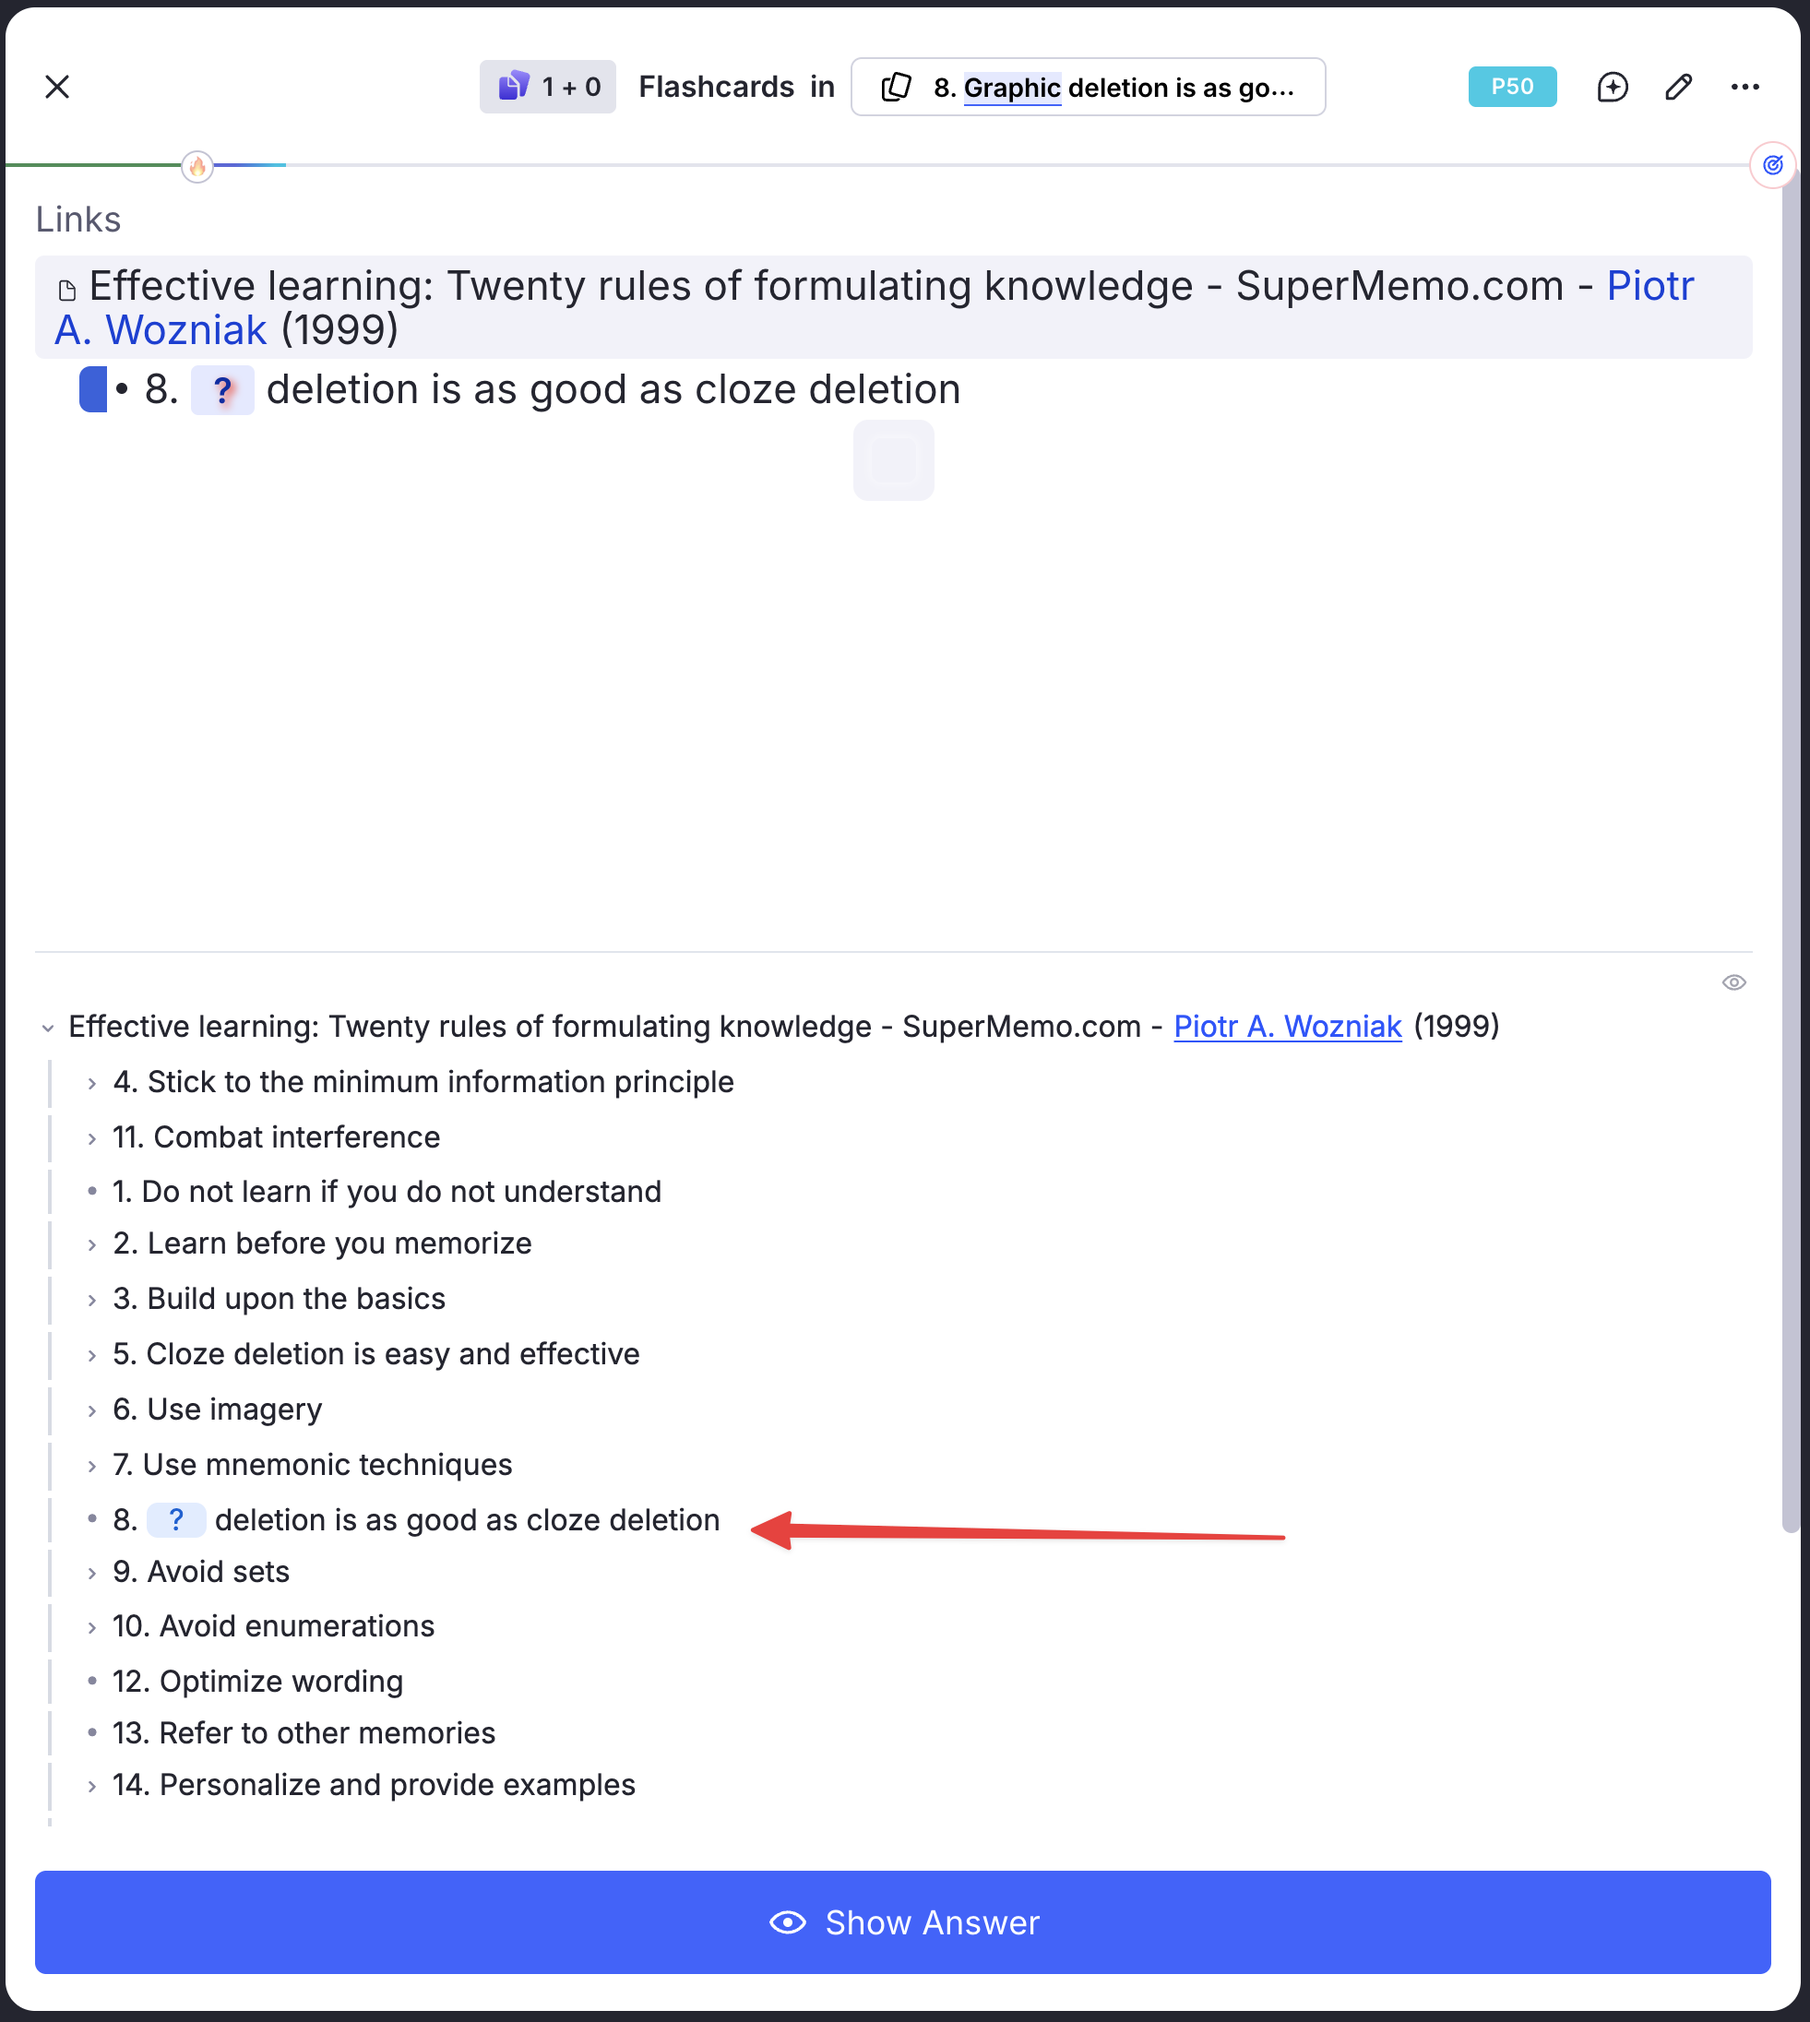
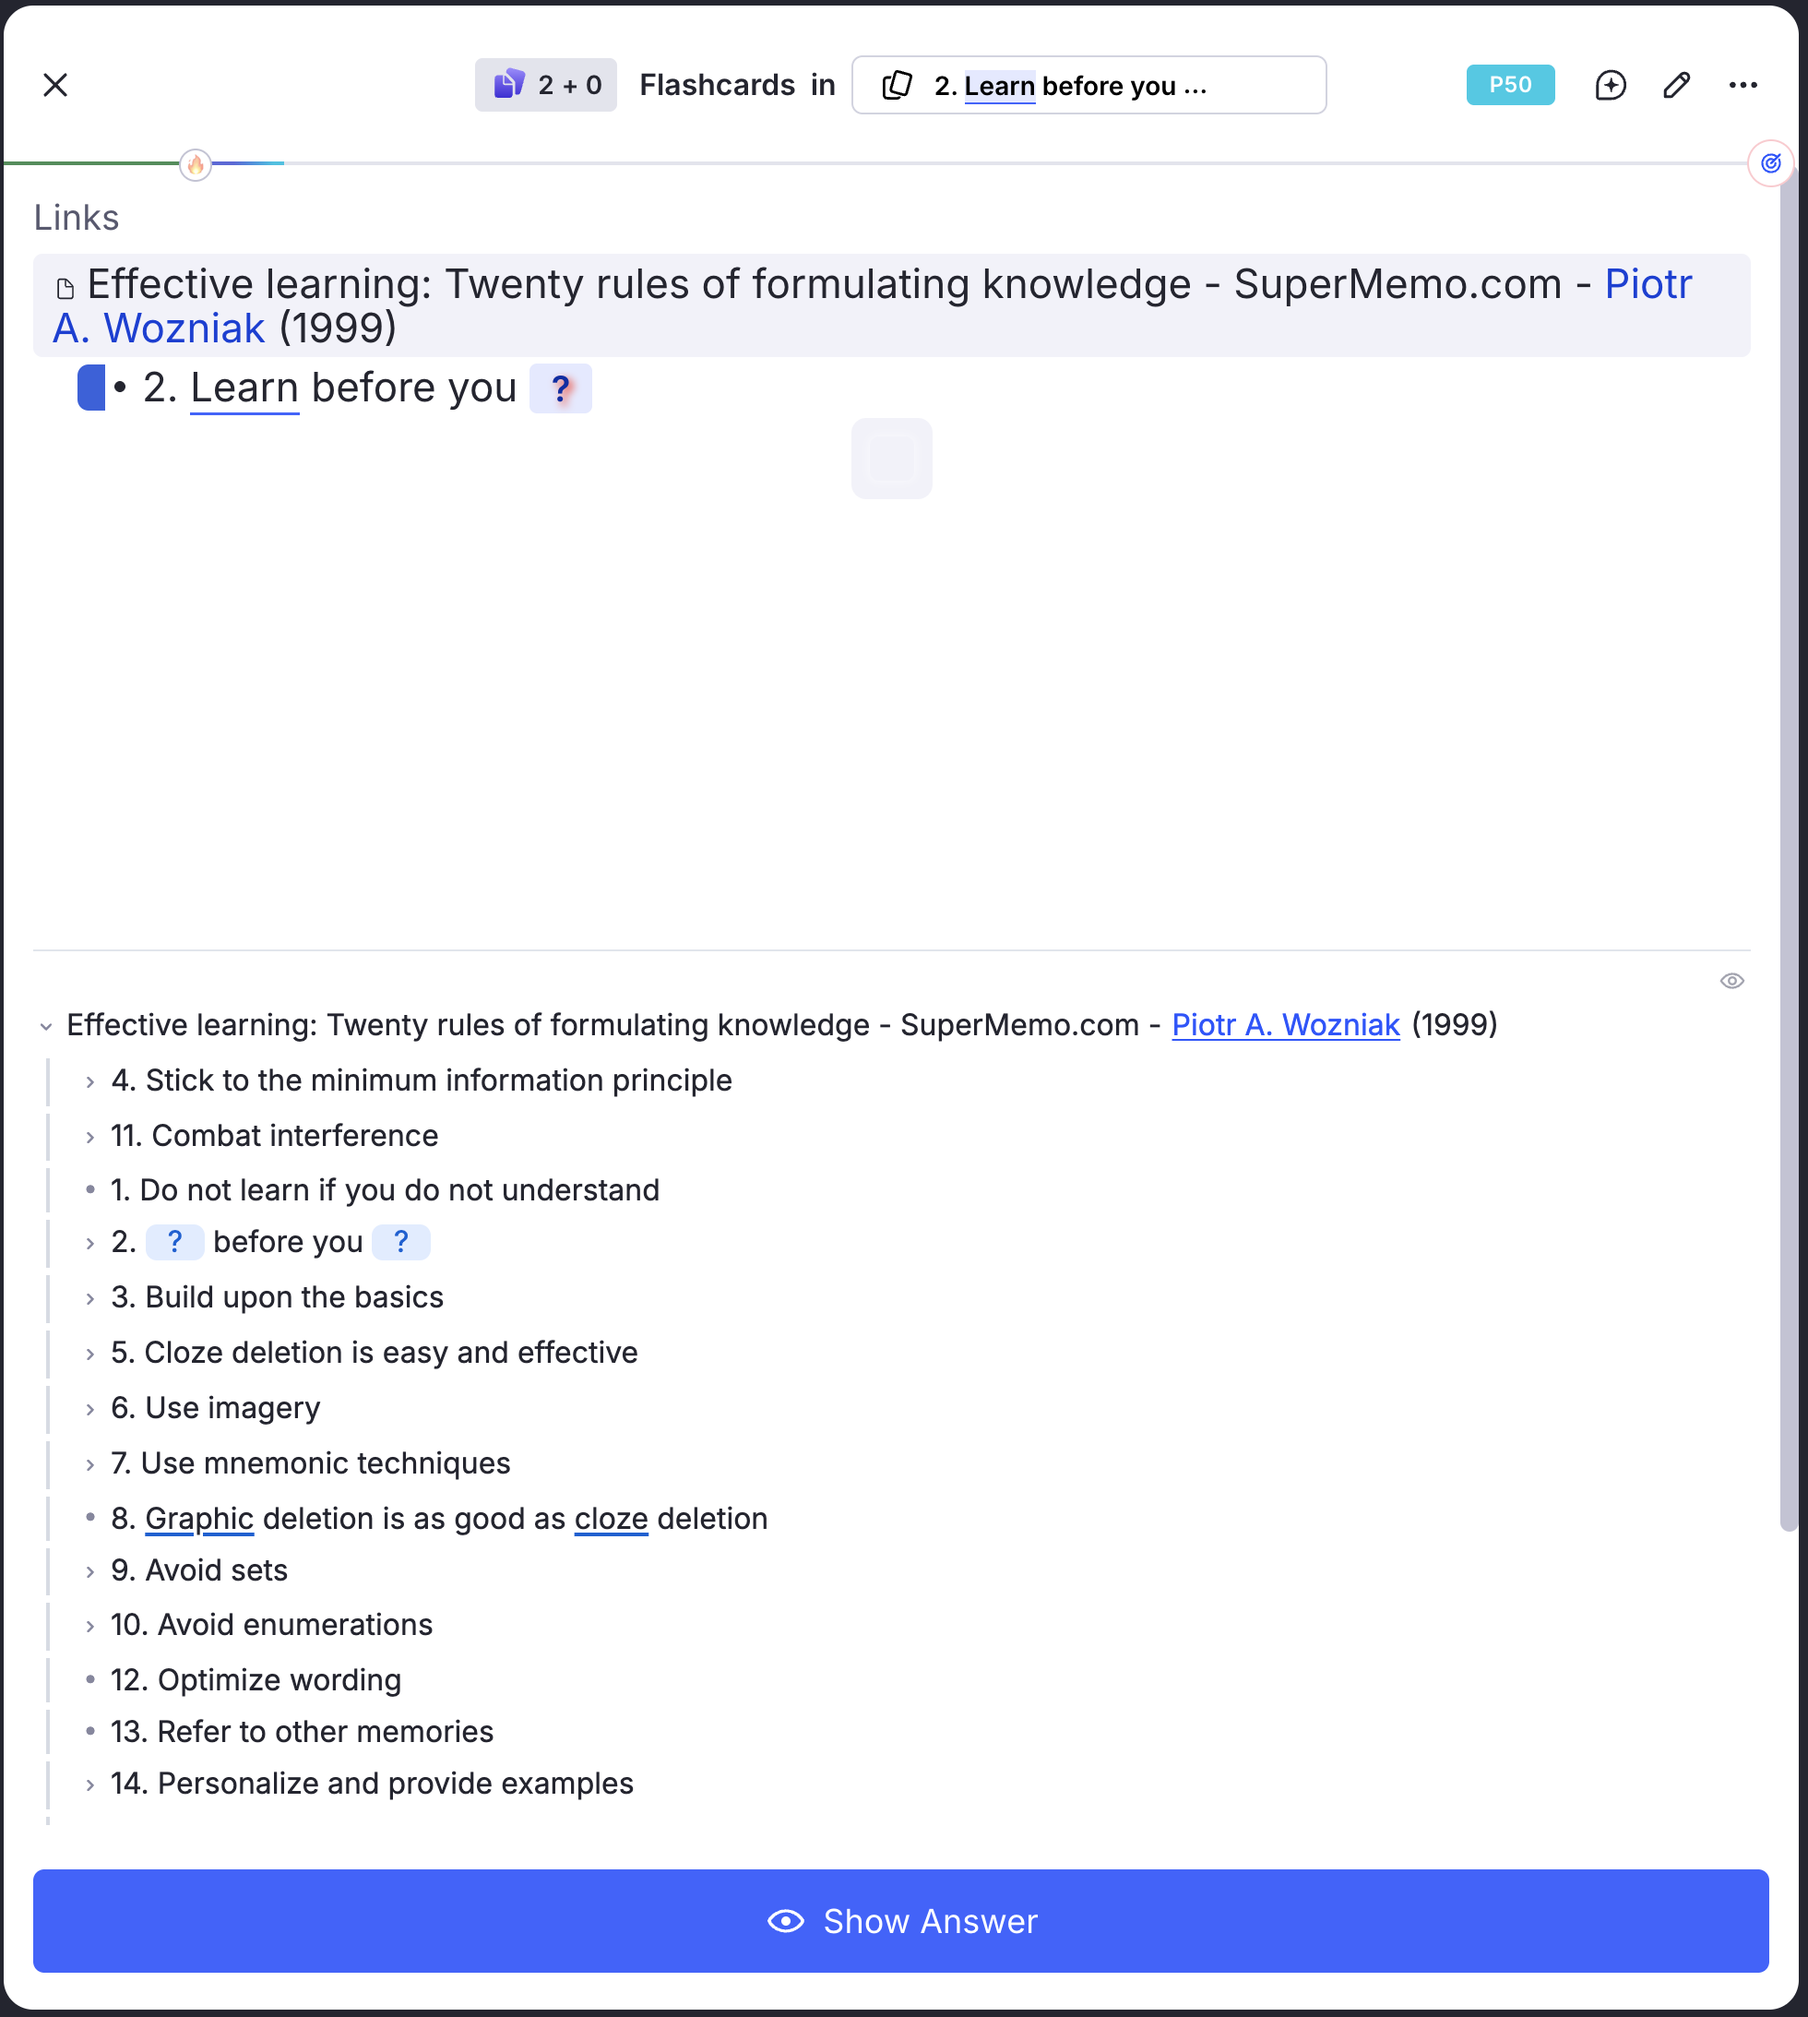
Refactor code structure for improved readability and maintainability

diff --git a/README_ES.md b/README_ES.md
@@ -170,7 +170,14 @@ Para reproducirlas: pon el cursor en el Rem del título del documento, ejecuta *
 
 2) **Un cloze dentro de su lista — fase de pregunta** *(caso de uso 1)*
 
-   Repasando la línea de dos huecos bajo **9. Avoid sets**. En el árbol esa línea muestra **ambos** huecos como **?** — el propio área de tarjeta de RemNote, arriba, ya renderiza por completo la línea bajo examen, así que el árbol no compite con ella. Lo que el árbol añade es el resto de la regla 9 a su alrededor: *A set is a collection of objects*, el ejemplo de los miembros de la UE y las dos tarjetas hermanas con sus respuestas a la vista. Esta es la alternativa barata a la tarjeta de conjunto — un hueco cada vez, pero nunca fuera de su lista.
+   Repasando *“2. `{{Learn}}` before you `{{memorize}}`”*. La tarjeta pide un hueco; el árbol devuelve esa línea a la lista a la que pertenece, con el resto de las veinte reglas a su alrededor.
+
+   Esta es la alternativa barata a la tarjeta de conjunto, y el documento demuestra el argumento sobre sí mismo: una tarjeta que pregunte *“enumera las veinte reglas de Woźniak”* es justo el elemento que las reglas 9 y 10 te dicen que no construyas — calificado todo‑o‑nada y leech en potencia. Un cloze por regla cuesta un solo lapso cuando se escapa, en lugar de tumbar la lista entera, y, como el árbol mantiene los demás títulos a la vista, repasas la forma de la enumeración cada vez que aparece uno de sus miembros.
+
+   En esta captura se ven dos detalles de renderizado:
+
+   - **La línea en repaso muestra *ambos* huecos como `?`**, aunque solo se esté preguntando uno. El área de tarjeta de RemNote, arriba, ya renderiza esa línea correctamente — *Learn* revelado, el hueco preguntado oculto — así que el árbol se aparta y deja la línea entera fuera de juego.
+   - **Las demás líneas muestran sus respuestas.** La regla 8 aparece como *“`Graphic` deletion is as good as `cloze` deletion”*, con sus dos huecos rellenos y subrayados. Ese es el comportamiento por defecto: todo salvo la línea en repaso se muestra contestado, como contexto. La captura 4 le da la vuelta.
 
    ![Cloze en contexto, fase de pregunta](https://raw.githubusercontent.com/hugomarins/remnote-context-for-cloze/main/img/02-cloze-question.png)
 
@@ -182,7 +189,7 @@ Para reproducirlas: pon el cursor en el Rem del título del documento, ejecuta *
 
 4) **`Context Hide Others` — cuando los vecinos lo delatan**
 
-   Fíjate en lo que la captura 2 te regala: *“…due to ⇒ **the high cost of retaining memories based on sets**”* y *“…you should always try to ⇒ **convert them into Enumerations**”*. Son dos tarjetas hermanas ofreciéndote sus respuestas mientras todavía intentas recordar esta. Etiqueta el Rem en repaso con `Context Hide Others` (`cfchide`) y toda *otra* respuesta del árbol — esos reversos incluidos — se reduce a un `…` clicable. Púlsalos de uno en uno para autoevaluarte con el resto de la regla 9 una vez hayas respondido.
+   A veces los vecinos hablan de más. Al repasar la línea de dos huecos bajo **9. Avoid sets**, el árbol te entrega dos tarjetas hermanas con sus respuestas en texto plano — *“…due to ⇒ **the high cost of retaining memories based on sets**”* y *“…you should always try to ⇒ **convert them into Enumerations**”* — mientras todavía intentas recordar esta. Etiqueta el Rem en repaso con `Context Hide Others` (`cfchide`) y toda *otra* respuesta del árbol, esos reversos incluidos, se reduce a un `…` clicable. Púlsalos de uno en uno para autoevaluarte con el resto de la regla 9 una vez hayas respondido.
 
    ![Hide Other Answers, con clic para revelar](https://raw.githubusercontent.com/hugomarins/remnote-context-for-cloze/main/img/04-hide-others.png)
 

diff --git a/README_PT-BR.md b/README_PT-BR.md
@@ -170,7 +170,14 @@ Para reproduzi‑las: ponha o cursor no Rem do título do documento, execute **A
 
 2) **Um cloze dentro da sua lista — fase de pergunta** *(caso de uso 1)*
 
-   Revisando a linha de duas lacunas sob **9. Avoid sets**. Na árvore, essa linha mostra as **duas** lacunas como **?** — a própria área de cartão do RemNote, acima, já renderiza por inteiro a linha em teste, então a árvore não disputa com ela. O que a árvore acrescenta é o resto da regra 9 em volta: *A set is a collection of objects*, o exemplo dos membros da UE e os dois cartões irmãos com as respostas à mostra. Esta é a alternativa barata ao cartão de conjunto — uma lacuna por vez, mas nunca fora da sua lista.
+   Revisando *“2. `{{Learn}}` before you `{{memorize}}`”*. O cartão pede uma lacuna; a árvore devolve essa linha à lista a que ela pertence, com o restante das vinte regras em volta.
+
+   Esta é a alternativa barata ao cartão de conjunto, e o documento prova o argumento sobre si mesmo: um cartão que pergunte *“liste as vinte regras de Woźniak”* é exatamente o item que as regras 9 e 10 mandam não construir — avaliado em tudo‑ou‑nada e leech em potencial. Um cloze por regra custa um único lapso quando escapa, em vez de derrubar a lista inteira, e, como a árvore mantém os outros títulos à vista, você reensaia a forma da enumeração toda vez que um de seus membros aparece.
+
+   Dois detalhes de renderização aparecem nesta captura:
+
+   - **A linha em revisão mostra as *duas* lacunas como `?`**, embora só uma esteja sendo testada. A área de cartão do RemNote, acima, já renderiza aquela linha corretamente — *Learn* revelada, a lacuna testada mascarada — então a árvore sai da frente e tira a linha inteira de jogo.
+   - **As outras linhas mostram as suas respostas.** A regra 8 aparece como *“`Graphic` deletion is as good as `cloze` deletion”*, com as duas lacunas preenchidas e sublinhadas. Esse é o padrão: tudo, exceto a linha em revisão, aparece respondido, como contexto. A captura 4 inverte isso.
 
    ![Cloze em contexto, fase de pergunta](https://raw.githubusercontent.com/hugomarins/remnote-context-for-cloze/main/img/02-cloze-question.png)
 
@@ -182,7 +189,7 @@ Para reproduzi‑las: ponha o cursor no Rem do título do documento, execute **A
 
 4) **`Context Hide Others` — quando os vizinhos entregam a resposta**
 
-   Repare no que a captura 2 lhe entrega de graça: *“…due to ⇒ **the high cost of retaining memories based on sets**”* e *“…you should always try to ⇒ **convert them into Enumerations**”*. São dois cartões irmãos oferecendo as próprias respostas enquanto você ainda tenta recordar esta. Marque o Rem em revisão com `Context Hide Others` (`cfchide`) e toda *outra* resposta da árvore — esses versos inclusive — encolhe para um `…` clicável. Clique nelas uma a uma para se autoavaliar no resto da regra 9 depois de ter respondido.
+   Às vezes os vizinhos falam demais. Ao revisar a linha de duas lacunas sob **9. Avoid sets**, a árvore lhe entrega dois cartões irmãos com as respostas em texto puro — *“…due to ⇒ **the high cost of retaining memories based on sets**”* e *“…you should always try to ⇒ **convert them into Enumerations**”* — enquanto você ainda tenta recordar esta. Marque o Rem em revisão com `Context Hide Others` (`cfchide`) e toda *outra* resposta da árvore, esses versos inclusive, encolhe para um `…` clicável. Clique nelas uma a uma para se autoavaliar no resto da regra 9 depois de ter respondido.
 
    ![Hide Other Answers, com clique para revelar](https://raw.githubusercontent.com/hugomarins/remnote-context-for-cloze/main/img/04-hide-others.png)
 

diff --git a/README_ZH.md b/README_ZH.md
@@ -168,7 +168,14 @@ RemNote 在这里有[一个特例](https://help.remnote.com/en/articles/6751778-
 
 2) **列表之中的一个 cloze——题面阶段**（用例 1）
 
-   复习 **9. Avoid sets** 之下那条带两个填空的行。在树里，这一行的**两个**填空都显示为 **?**——上方 RemNote 自己的卡片区域已经把受测行完整渲染出来了，树不去跟它争。树补上的，是围绕它的规则 9 其余部分：*A set is a collection of objects*、欧盟成员的例子，以及两张把答案摊在明面上的兄弟卡片。这就是集合卡的廉价替代品——一次只考一个填空，但从不脱离它的列表。
+   复习 *“2. `{{Learn}}` before you `{{memorize}}`”*。这张卡只问一个填空；而树把这一行放回它所属的列表中，二十条规则的其余部分环绕在旁。
+
+   这就是集合卡的廉价替代品，而这份文档在自己身上印证了这个论点：一张问 *“列出 Woźniak 的二十条规则”* 的卡片，正是第 9、10 条叫你不要做的那种——全对全错评分，且是潜在的 leech。每条规则做一个 cloze，失手时只损失一次 lapse，而不是整份列表全军覆没；又因为树把其余标题一直摆在眼前，每当其中一个成员出现，你都会重新演练一遍这份枚举的整体形状。
+
+   这张截图里能看到两处渲染细节：
+
+   - **正在复习的那一行，两个填空都显示为 `?`**，尽管被考的只有其中一个。上方 RemNote 的卡片区域已经把那一行渲染妥当了——*Learn* 揭示，受测的填空遮起——所以树让开位置，把整行排除在外。
+   - **其他行则显示各自的答案。** 第 8 条显示为 *“`Graphic` deletion is as good as `cloze` deletion”*，两个填空都已填上并带下划线。这就是默认行为：除正在复习的那一行之外，一切都以已答状态作为上下文呈现。截图 4 会把它反转过来。
 
    ![上下文中的 cloze，题面阶段](https://raw.githubusercontent.com/hugomarins/remnote-context-for-cloze/main/img/02-cloze-question.png)
 
@@ -180,7 +187,7 @@ RemNote 在这里有[一个特例](https://help.remnote.com/en/articles/6751778-
 
 4) **`Context Hide Others`——当邻居把答案泄露出去时**
 
-   看看截图 2 白送给你的东西：*“…due to ⇒ **the high cost of retaining memories based on sets**”* 和 *“…you should always try to ⇒ **convert them into Enumerations**”*。这是两张兄弟卡片，在你还在努力回忆当前这张时就把自己的答案奉上了。给正在复习的 Rem 加上 `Context Hide Others`（`cfchide`），树中所有*其他*答案——包括这些背面——都会收缩成一个可点击的 `…`。答完之后再逐个点开，对规则 9 的其余部分做自我检测。
+   有时候邻居说得太多了。复习 **9. Avoid sets** 之下那条带两个填空的行时，树会把两张兄弟卡片的答案以明文摆在你面前——*“…due to ⇒ **the high cost of retaining memories based on sets**”* 和 *“…you should always try to ⇒ **convert them into Enumerations**”*——而你还在努力回忆当前这张。给正在复习的 Rem 加上 `Context Hide Others`（`cfchide`），树中所有*其他*答案（包括这些背面）都会收缩成一个可点击的 `…`。答完之后再逐个点开，对规则 9 的其余部分做自我检测。
 
    ![Hide Other Answers 与点击揭示](https://raw.githubusercontent.com/hugomarins/remnote-context-for-cloze/main/img/04-hide-others.png)
 
